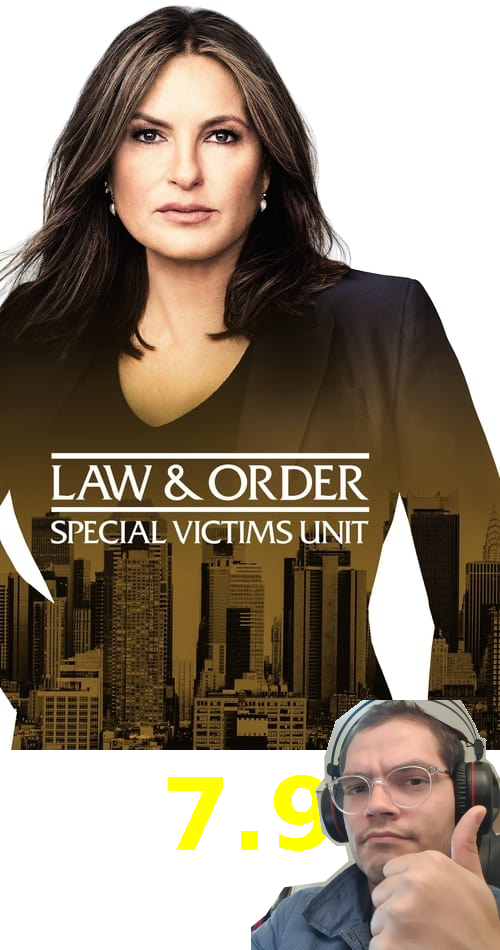
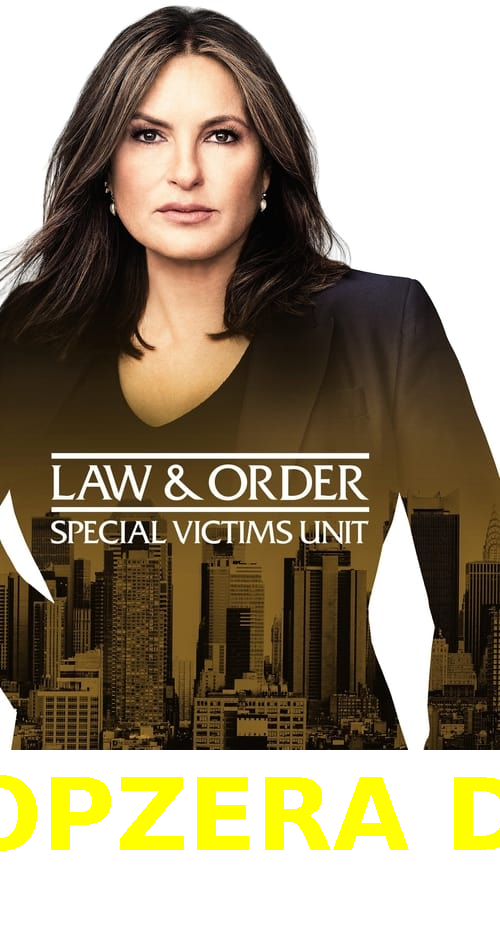
refactors the code. Low coupling between objects.

Changed region(s): [[0.0, 0.7326, 1.0, 1.0]]

diff --git a/src/main/java/br/com/alura/App.java b/src/main/java/br/com/alura/App.java
@@ -9,139 +9,64 @@ import static com.diogonunes.jcolor.Attribute.RED_TEXT;
 import static com.diogonunes.jcolor.Attribute.YELLOW_BACK;
 
 import java.io.InputStream;
-import java.net.URI;
 import java.net.URL;
-import java.net.http.HttpClient;
-import java.net.http.HttpRequest;
-import java.net.http.HttpResponse;
-import java.net.http.HttpResponse.BodyHandlers;
+import java.util.List;
 import java.util.Map;
-
-import org.json.JSONObject;
 
 import com.diogonunes.jcolor.Attribute;
 
 public class App {
 
-    /**
-     * @param args
-     * @throws Exception
-     */
-    public static void main(String[] args) throws Exception {
+	/**
+	 * @param args
+	 * @throws Exception
+	 */
+	public static void main(String[] args) throws Exception {
 
-        boolean debug = false;
+		// IMDB
+		// read api key from environment variable
+		Map<String, String> env = System.getenv();
+		String apiKeyMatheus = env.get("APIKEYMATHEUS");
+		// make HTTP conection and search tv shows to discover
+		String baseUrl = "https://api.themoviedb.org/3";
+		String endpoint = "/discover/tv";
+		String requiredParam = "?api_key=" + apiKeyMatheus;
+		String optionalParam = "&air_date.lte=2000";
+		endpoint += requiredParam + optionalParam;
+		String url = baseUrl + endpoint;
+		ContentExtractor extractor = new IMDBExtractorContent();
 
-        // read api key from environment variable
-        Map<String, String> env = System.getenv();
-        String apiKeyMatheus = env.get("APIKEYMATHEUS");
+//		NASA
+//		String url = "https://api.nasa.gov/planetary/apod?api_key=DEMO_KEY&start_date=2022-04-25&end_date=2022-04-27";
+//		ContentExtractor extractor = new NasaExtractorContent();
 
-        // make HTTP conection and search tv shows to discover
-        String baseUrl = "https://api.themoviedb.org/3";
-        String imgBaseUrl = "https://image.tmdb.org/t/p/w500";
-        String endpoint = "/discover/tv";
-        String requiredParam = "?api_key=" + apiKeyMatheus;
-        String optionalParam = "&air_date.lte=2000";
-        endpoint += requiredParam + optionalParam;
-        String url = baseUrl + endpoint;
+		var http = new ClientHTTP();
+		String json = http.fetchData(url);
 
-        URI address = URI.create(url);
-        var client = HttpClient.newHttpClient();
-        var request = HttpRequest.newBuilder(address).GET().build();
-        HttpResponse<String> response = client.send(request, BodyHandlers.ofString());
-        String body = response.body();
+		List<Content> contents = extractor.extractContents(json);
 
-        if (debug) {
-            System.out.println(body);
-            System.exit(-1);
-        }
+		Attribute[] myFormat = new Attribute[] { RED_TEXT(), YELLOW_BACK(), BOLD() };
+		Attribute[] myOtherFormat = new Attribute[] { GREEN_TEXT(), BLUE_BACK(), BOLD() };
 
-        JSONObject jsonObject = new JSONObject(body);
-        
-        Attribute[] myFormat = new Attribute[]{RED_TEXT(), YELLOW_BACK(), BOLD()};
-        Attribute[] tvShowsTitle = new Attribute[]{GREEN_TEXT(), BLUE_BACK(), BOLD()};
-        
-        System.out.println(colorize("                 ", tvShowsTitle));
-        System.out.println(colorize("Discover Tv Shows", tvShowsTitle));
-        System.out.println(colorize("                 ", tvShowsTitle));
-        System.out.println(colorize("\n", tvShowsTitle));
-        
-        
-        StickerGenerator stickerGenerator = new StickerGenerator();
-        for (int i = 0; i < jsonObject.getJSONArray("results").length(); i++) {
-            
-        	String tvShowName = (String) jsonObject.getJSONArray("results").getJSONObject(i).get("original_name");
-            String rating = jsonObject.getJSONArray("results").getJSONObject(i).get("vote_average").toString();          
-            String urlPosterImage = imgBaseUrl + jsonObject.getJSONArray("results").getJSONObject(i).get("poster_path");
-            
-            InputStream inputStream = new URL(urlPosterImage).openStream();
-            stickerGenerator.create(inputStream, tvShowName + ".png", rating);
-            
-            System.out.println(colorize(tvShowName, myFormat));
-            
-            if (Math.round(Double.parseDouble(rating)) == 0) {
-            	for (int j = 0; j < 10; j++) {
-                	System.out.print("🍅");
-    			}
-			} else {
-				for (int j = 0; j < Math.round(Double.parseDouble(rating)); j++) {
-	            	System.out.print("⭐");
-				}
-			}
-                       
-            System.out.println("(" + rating + ")");
-            System.out.println(colorize(urlPosterImage, CYAN_TEXT()));
-            System.out.println("\n\n");
-        }
-        
-        // make HTTP conection and search trending tv shows
-        endpoint = "/trending/tv/week";
-        optionalParam = "";
-        endpoint += requiredParam + optionalParam;
-        url = baseUrl + endpoint;
-        
-        address = URI.create(url);
-        client = HttpClient.newHttpClient();
-        request = HttpRequest.newBuilder(address).GET().build();
-        response = client.send(request, BodyHandlers.ofString());
-        body = response.body();
+		System.out.println(colorize("                 ", myOtherFormat));
+		System.out.println(colorize("   - Discover -  ", myOtherFormat));
+		System.out.println(colorize("                 ", myOtherFormat));
+		System.out.println(colorize("\n", myOtherFormat));
 
-        JSONObject jsonObjectTredingTvShows = new JSONObject(body);
-		
-        if (debug) {
-            System.out.println(body);
-            System.exit(-1);
-        }
+		StickerGenerator stickerGenerator = new StickerGenerator();
 
-        System.out.println(colorize("                 ", tvShowsTitle));
-        System.out.println(colorize("Trending Tv Shows", tvShowsTitle));
-        System.out.println(colorize("                 ", tvShowsTitle));
-        System.out.println(colorize("\n", tvShowsTitle));
-        
-        for (int i = 0; i < jsonObjectTredingTvShows.getJSONArray("results").length(); i++) {
-            
-        	String tvShowName = (String) jsonObjectTredingTvShows.getJSONArray("results").getJSONObject(i).get("original_name");
-            String rating = jsonObjectTredingTvShows.getJSONArray("results").getJSONObject(i).get("vote_average").toString();          
-            String urlPosterImage = imgBaseUrl + jsonObjectTredingTvShows.getJSONArray("results").getJSONObject(i).get("poster_path");
-        	
-            InputStream inputStream = new URL(urlPosterImage).openStream();
-            stickerGenerator.create(inputStream, tvShowName + ".png", rating);
-         
-            System.out.println(colorize(tvShowName, myFormat));
-            
-            if (Math.round(Double.parseDouble(rating)) == 0) {
-            	for (int j = 0; j < 10; j++) {
-                	System.out.print("🍅");
-    			}
-			} else {
-				for (int j = 0; j < Math.round(Double.parseDouble(rating)); j++) {
-	            	System.out.print("⭐");
-				}
-			}
-                       
-            System.out.println("(" + rating + ")");
-            System.out.println(colorize(urlPosterImage, CYAN_TEXT()));
-            System.out.println("\n\n");
-        } // fim aula 2 :)
+		for (int i = 0; i < 3; i++) {
 
-    }
+			Content content = contents.get(i);
+
+			InputStream inputStream = new URL(content.getUrlImage()).openStream();
+
+			stickerGenerator.create(inputStream, content.getTitle() + ".png");
+
+			System.out.println(colorize(content.getTitle(), myFormat));
+			System.out.println(colorize(content.getUrlImage(), CYAN_TEXT()));
+			System.out.println("\n");
+		}
+
+	}
 }

diff --git a/src/main/java/br/com/alura/StickerGenerator.java b/src/main/java/br/com/alura/StickerGenerator.java
@@ -5,17 +5,14 @@ import java.awt.Font;
 import java.awt.Graphics2D;
 import java.awt.image.BufferedImage;
 import java.io.File;
-import java.io.FileInputStream;
 import java.io.IOException;
 import java.io.InputStream;
-import java.net.URI;
-import java.net.URL;
 
 import javax.imageio.ImageIO;
 
 public class StickerGenerator {
 
-	public void create(InputStream inputStream, String stickerFileName, String stickerCaptionName) throws IOException {
+	public void create(InputStream inputStream, String stickerFileName) throws IOException {
 		
 		// reads image
 		// get image from disk
@@ -42,22 +39,12 @@ public class StickerGenerator {
 		graphics.setColor(Color.YELLOW);
 		
 		// write phrase on new image
-		String stickerLegend = stickerCaptionName;
+		String stickerLegend = "TOPZERA D+";
 		int stringWidth = graphics.getFontMetrics().stringWidth(stickerLegend);
 		int centeringPosition = Math.round((width - stringWidth)/2);
 		graphics.drawString(stickerLegend, centeringPosition, newHeight - 100);
 		
-		// Challange: put personal picture based on tv show rating
-		if (Double.parseDouble(stickerCaptionName) >= 7) {
-			InputStream inputStreamThumbsUp = new FileInputStream(new File("src/main/resources/input/thumbsUp.png"));
-			BufferedImage thumbsUpImage = ImageIO.read(inputStreamThumbsUp);
-			graphics.drawImage(thumbsUpImage, 250, newHeight - 250, null);
-		} else if (Double.parseDouble(stickerCaptionName) <= 3.5) { 
-			InputStream inputStreamThumbsDown = new FileInputStream(new File("src/main/resources/input/thumbsDown.png"));
-			BufferedImage thumbsUpImage = ImageIO.read(inputStreamThumbsDown);
-			graphics.drawImage(thumbsUpImage, 250, newHeight - 250, null);
-		}
-		
+	
 		// write new image on file
 		File outputImageFile = new File("src/main/resources/output/" + stickerFileName);
 		// Create output dir if it doesn't exists

diff --git a/src/main/java/br/com/alura/IMDBExtractorContent.java b/src/main/java/br/com/alura/IMDBExtractorContent.java
@@ -1,0 +1,32 @@
+package br.com.alura;
+
+import java.util.ArrayList;
+import java.util.List;
+
+import org.json.JSONArray;
+import org.json.JSONObject;
+
+public class IMDBExtractorContent implements ContentExtractor {
+	
+	private String imgBaseUrl = "https://image.tmdb.org/t/p/w500";;
+
+	public List<Content> extractContents(String json) {
+
+		JSONObject jsonObject = new JSONObject(json);
+
+		JSONArray jsonArray = jsonObject.getJSONArray("results");
+
+		List<Content> contents = new ArrayList<>();
+
+		// Populate list of content
+
+		for (int i = 0; i < jsonArray.length(); i++) {
+			String title = (String) jsonArray.getJSONObject(i).get("original_name");
+			String urlImage = imgBaseUrl + jsonArray.getJSONObject(i).get("poster_path");
+			var content = new Content(title, urlImage);
+
+			contents.add(content);
+		}
+		return contents;
+	}
+}

diff --git a/src/main/java/br/com/alura/ClientHTTP.java b/src/main/java/br/com/alura/ClientHTTP.java
@@ -1,0 +1,24 @@
+package br.com.alura;
+
+import java.io.IOException;
+import java.net.URI;
+import java.net.http.HttpClient;
+import java.net.http.HttpRequest;
+import java.net.http.HttpResponse;
+import java.net.http.HttpResponse.BodyHandlers;
+
+public class ClientHTTP {
+
+	public String fetchData(String url) {
+		try {
+			URI address = URI.create(url);
+			var client = HttpClient.newHttpClient();
+			var request = HttpRequest.newBuilder(address).GET().build();
+			HttpResponse<String> response = client.send(request, BodyHandlers.ofString());
+			String body = response.body();
+			return body;
+		} catch (IOException | InterruptedException ex) {
+			throw new RuntimeException(ex);
+		}
+	}
+}

diff --git a/src/main/java/br/com/alura/NasaExtractorContent.java b/src/main/java/br/com/alura/NasaExtractorContent.java
@@ -1,0 +1,26 @@
+package br.com.alura;
+
+import java.util.ArrayList;
+import java.util.List;
+
+import org.json.JSONArray;
+
+public class NasaExtractorContent implements ContentExtractor {
+	public List<Content> extractContents(String json) {
+
+		var jsonArray = new JSONArray(json);
+		
+		List<Content> contents = new ArrayList<>();
+
+		// Populate list of content
+		for (int i = 0; i < jsonArray.length(); i++) {
+			String title = (String) jsonArray.getJSONObject(i).get("title");
+			String urlImage = (String) jsonArray.getJSONObject(i).get("url");
+			var content = new Content(title, urlImage);
+			
+			contents.add(content);
+		}
+		
+		return contents;
+	}
+}

diff --git a/src/main/java/br/com/alura/Content.java b/src/main/java/br/com/alura/Content.java
@@ -1,0 +1,22 @@
+package br.com.alura;
+
+public class Content {
+
+	private final String title;
+	private final String urlImage;
+	
+	public Content(String title, String urlImage) {
+		this.title = title;
+		this.urlImage = urlImage;
+	}
+	
+	public String getTitle() {
+		return title;
+	}
+	
+	public String getUrlImage() {
+		return urlImage;
+	}
+	
+	
+}

diff --git a/src/main/java/br/com/alura/ContentExtractor.java b/src/main/java/br/com/alura/ContentExtractor.java
@@ -1,0 +1,8 @@
+package br.com.alura;
+
+import java.util.List;
+
+public interface ContentExtractor {
+
+	public List<Content> extractContents(String json);
+}
